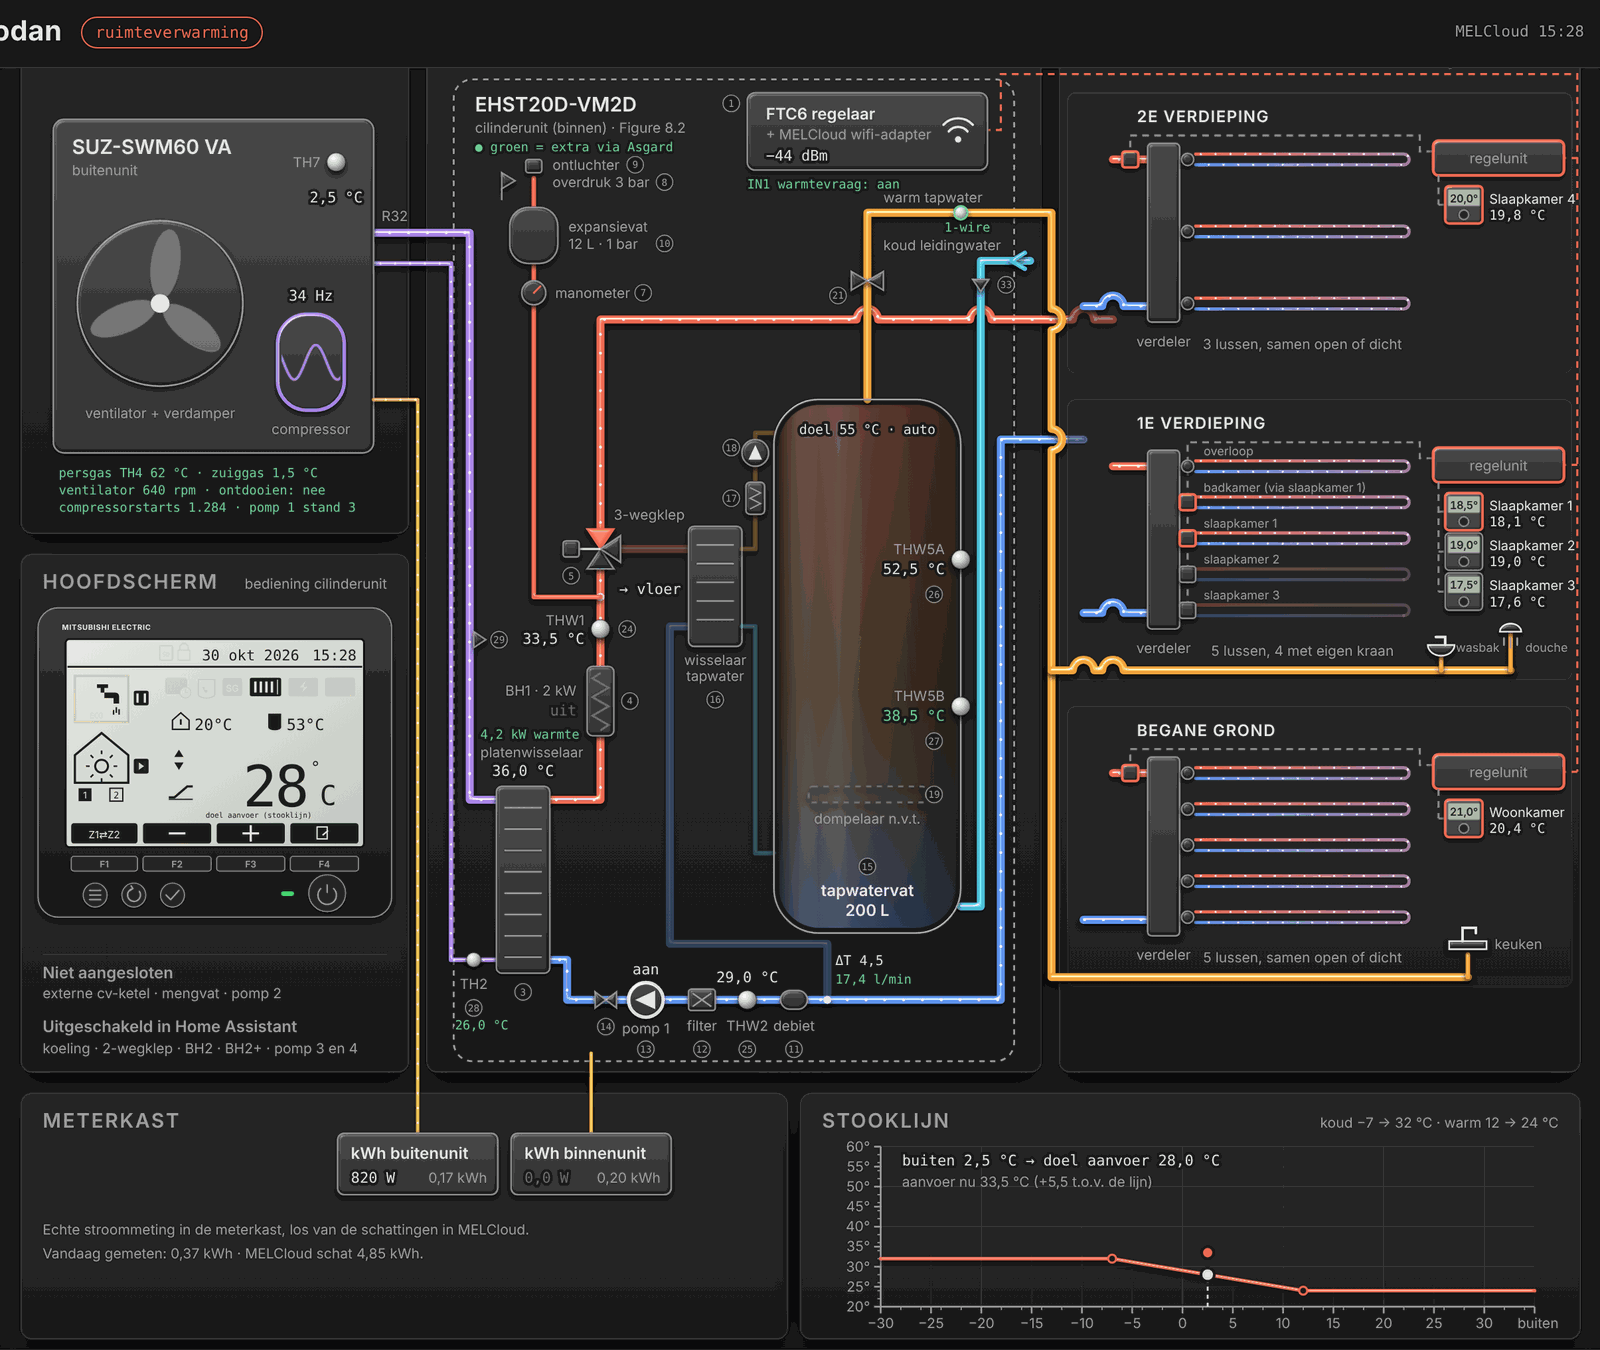
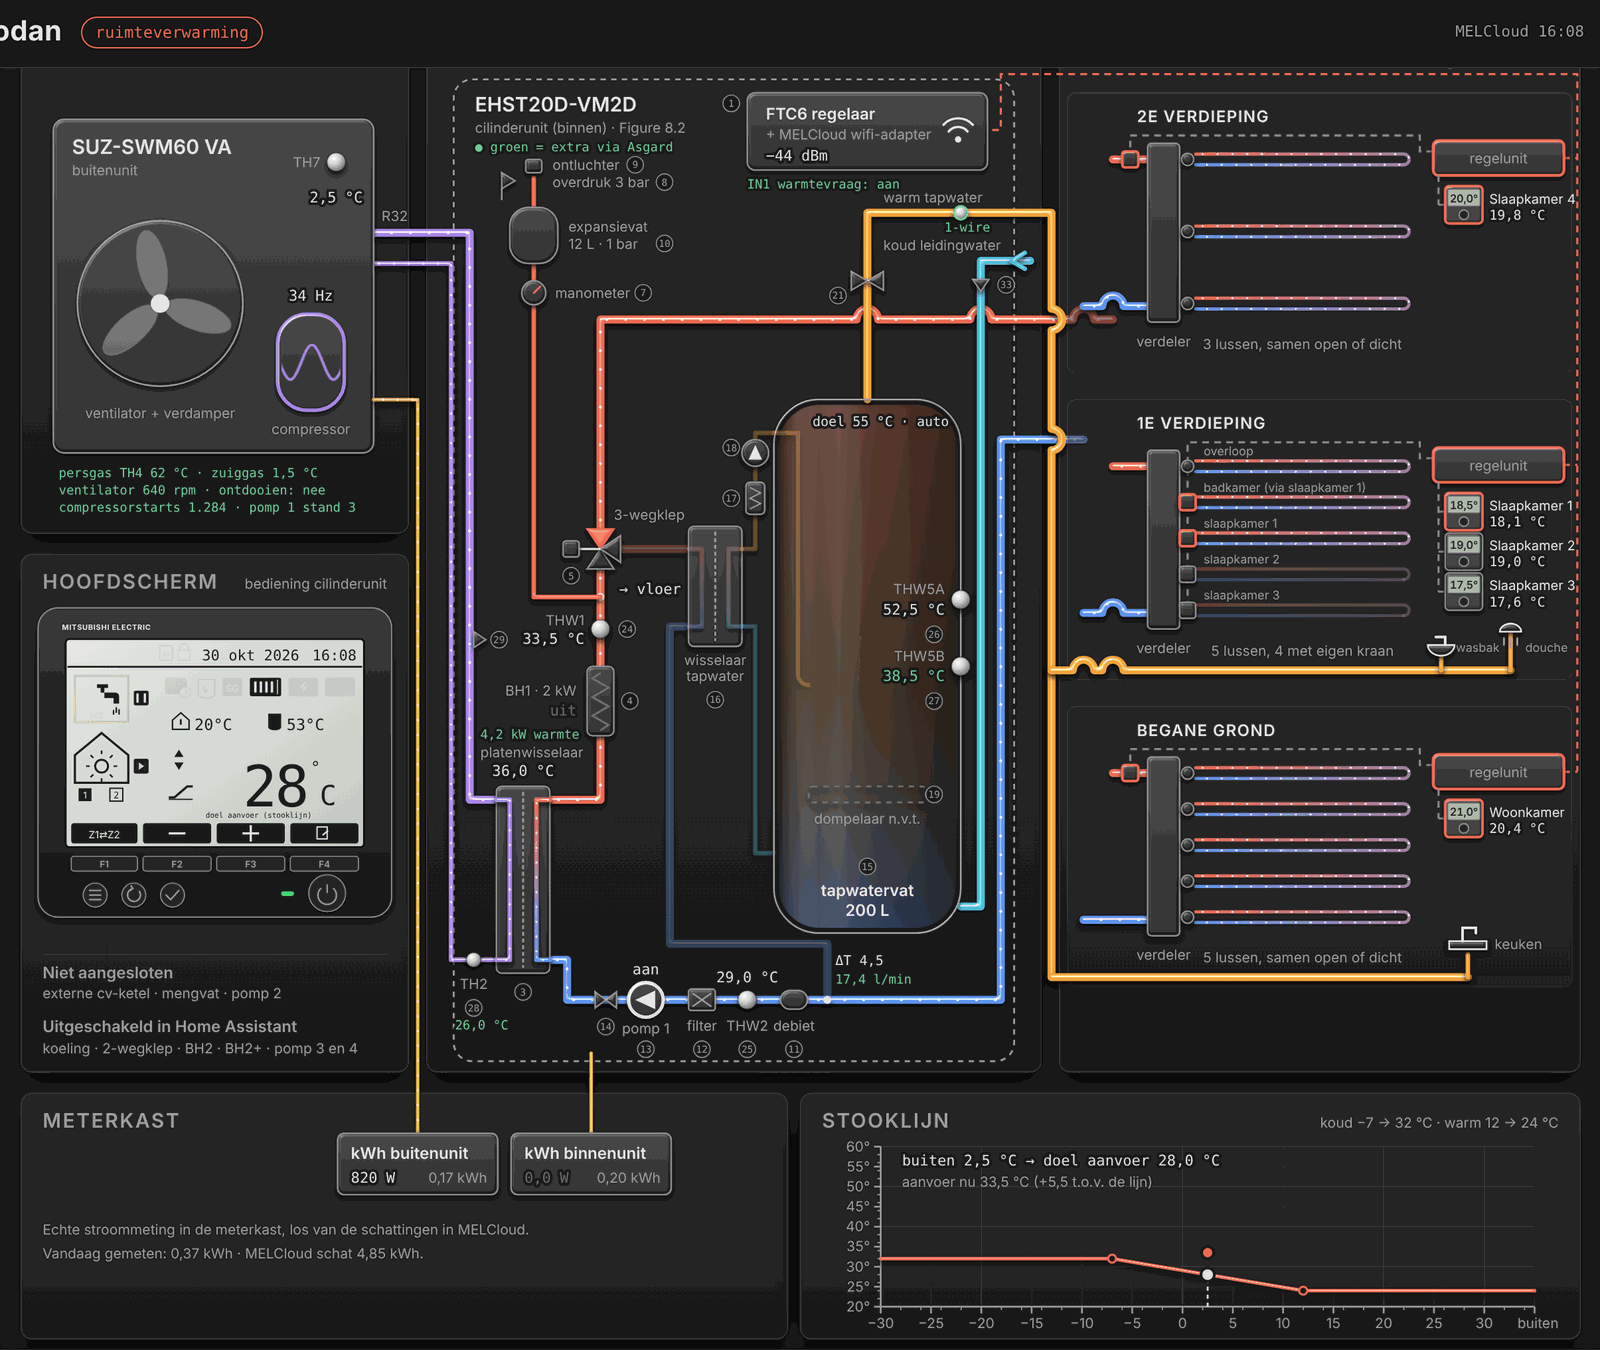
Ontwerp: gescheiden circuits in platenwisselaars 3 en 16, terugvoer in het vat tot onder THW5B
Platenwisselaar 3 toont links het koudemiddel en rechts het water; wisselaar 16 links het
primaire water (klep 5 terug naar debietmeter 11) en rechts het tapwater (onderin het vat naar
17 en 18). De leiding na pomp 18 loopt in het vat door tot net onder THW5B, zoals in Figure 8.2.

Claude-Session: https://claude.ai/code/session_01N7p1Vn81D8G9jPGQKcyavj

diff --git a/custom_components/ecodash/frontend/ecodash-panel.js b/custom_components/ecodash/frontend/ecodash-panel.js
@@ -329,6 +329,13 @@ function schemaSvg(floors, curve) {
       <stop offset=".34" stop-color="#fff" stop-opacity=".12"/><stop offset=".6" stop-color="#000" stop-opacity=".04"/>
       <stop offset="1" stop-color="#000" stop-opacity=".42"/></linearGradient>
     <!-- spiraal: warm (aanvoer) bovenin, afgekoeld (retour) bij de uitgang rechtsonder -->
+    <!-- platenwisselaars: water warmt op in 3 (onder retour, boven aanvoer); in 16 koelt het primaire water af en warmt het tapwater op -->
+    <linearGradient id="hex3W" gradientUnits="userSpaceOnUse" x1="0" y1="720" x2="0" y2="600">
+      <stop offset="0" style="stop-color:var(--ret)"/><stop offset="1" style="stop-color:var(--hot)"/></linearGradient>
+    <linearGradient id="hex16P" gradientUnits="userSpaceOnUse" x1="0" y1="412" x2="0" y2="470">
+      <stop offset="0" style="stop-color:var(--hot)"/><stop offset="1" style="stop-color:var(--ret)"/></linearGradient>
+    <linearGradient id="hex16S" gradientUnits="userSpaceOnUse" x1="0" y1="470" x2="0" y2="412">
+      <stop offset="0" style="stop-color:var(--cold)"/><stop offset="1" style="stop-color:var(--dhw)"/></linearGradient>
     <linearGradient id="coilGrad" gradientUnits="userSpaceOnUse" x1="0" y1="420" x2="0" y2="650">
       <stop offset="0" style="stop-color:var(--hot)"/><stop offset="1" style="stop-color:var(--ret)"/></linearGradient>
     <!-- vat: gelaagd, koud leidingwater onderin en warm tapwater bovenin -->
@@ -475,12 +482,9 @@ function schemaSvg(floors, curve) {
 
   <g class="comp" data-c="hex" tabindex="0" role="button" aria-label="Platenwisselaar koudemiddel-water">
     <rect class="shape" x="372" y="590" width="40" height="140" rx="4"/>
-    <g stroke="var(--muted)" stroke-width="1.2">
-      <line x1="378" y1="606" x2="406" y2="606"/><line x1="378" y1="622" x2="406" y2="622"/>
-      <line x1="378" y1="638" x2="406" y2="638"/><line x1="378" y1="654" x2="406" y2="654"/>
-      <line x1="378" y1="670" x2="406" y2="670"/><line x1="378" y1="686" x2="406" y2="686"/>
-      <line x1="378" y1="702" x2="406" y2="702"/><line x1="378" y1="718" x2="406" y2="718"/>
-    </g>
+    <path class="hexwall" d="M392,594 V726"/>
+    ${pipe("M372,600 H382 V720 H372", "refr", "refr", true)}
+    <path class="pipe thin b-prim" style="stroke:url(#hex3W)" d="M412,720 H402 V600 H412"/><path class="fl f-prim thin" d="M412,720 H402 V600 H412"/>
     <text class="t s" x="360" y="568">platenwisselaar</text>
     <text class="val" id="v-cond" x="392" y="582" text-anchor="middle"></text>
     <text class="asg sm" x="360" y="554">4,2 kW warmte</text>
@@ -519,11 +523,9 @@ function schemaSvg(floors, curve) {
   <!-- tapwaterkant: platenwisselaar water-water 16, kalkvanger 17, sanitaire pomp 18 -->
   <g class="comp" data-c="hex16" tabindex="0" role="button" aria-label="Platenwisselaar water-water voor tapwater">
     <rect class="shape" x="516" y="395" width="40" height="90" rx="4"/>
-    <g stroke="var(--muted)" stroke-width="1.2">
-      <line x1="522" y1="409" x2="550" y2="409"/><line x1="522" y1="423" x2="550" y2="423"/>
-      <line x1="522" y1="437" x2="550" y2="437"/><line x1="522" y1="451" x2="550" y2="451"/>
-      <line x1="522" y1="465" x2="550" y2="465"/>
-    </g>
+    <path class="hexwall" d="M536,399 V481"/>
+    <path class="pipe thin b-dhw" style="stroke:url(#hex16P)" d="M516,412 H526 V470 H516"/><path class="fl f-dhw thin" d="M516,412 H526 V470 H516"/>
+    <path class="pipe thin b-dhw" style="stroke:url(#hex16S)" d="M556,470 H546 V412 H556"/><path class="fl f-dhw thin" d="M556,470 H546 V412 H556"/>
     <text class="t s" x="536" y="499" text-anchor="middle">wisselaar</text>
     <text class="t s" x="536" y="511" text-anchor="middle">tapwater</text>
     ${nb(536, 525, 16)}
@@ -581,24 +583,25 @@ function schemaSvg(floors, curve) {
     <rect class="shape" x="580" y="300" width="140" height="400" rx="34" style="fill:none"/>
     <text class="t b" x="650" y="672" text-anchor="middle">tapwatervat</text>
     <text class="t b" x="650" y="687" text-anchor="middle">200 L</text>
-    <text class="val sm" id="v-target" x="650" y="326" text-anchor="middle"></text>
+    <text class="val sm" id="v-target" x="660" y="320" text-anchor="middle"></text>
     ${nb(650, 650, 15)}
   </g>
+  ${pipe("M580,325 H598 V506 a8,8 0 0 0 8,8", "dhw", "dhw", true)}
   <g class="comp" data-c="imm" tabindex="0" role="button" aria-label="Dompelaar, niet ingebouwd">
     <rect class="ghost" id="imm-shape" x="606" y="590" width="88" height="12" rx="3"/>
     <text class="t s" x="650" y="618" text-anchor="middle">dompelaar n.v.t.</text>
     ${nb(700, 596, 19)}
   </g>
   <g class="comp" data-c="thw5" tabindex="0" role="button" aria-label="Tankvoelers THW5A en THW5B">
-    <rect class="hit" x="640" y="400" width="86" height="180"/>
-    <circle class="sensor" cx="720" cy="420" r="7"/>
-    <text class="t s" x="708" y="416" text-anchor="end">THW5A</text>
-    <text class="val" id="v-tank" x="708" y="431" text-anchor="end"></text>
-    ${nb(700, 446, 26)}
-    <circle class="sensor" cx="720" cy="530" r="7"/>
-    <text class="t s" x="708" y="526" text-anchor="end">THW5B</text>
-    <text class="asg" x="708" y="541" text-anchor="end">38,5 °C</text>
-    ${nb(700, 556, 27)}
+    <rect class="hit" x="640" y="430" width="86" height="106"/>
+    <circle class="sensor" cx="720" cy="450" r="7"/>
+    <text class="t s" x="708" y="446" text-anchor="end">THW5A</text>
+    <text class="val" id="v-tank" x="708" y="461" text-anchor="end"></text>
+    ${nb(700, 476, 26)}
+    <circle class="sensor" cx="720" cy="500" r="7"/>
+    <text class="t s" x="708" y="496" text-anchor="end">THW5B</text>
+    <text class="asg" x="708" y="511" text-anchor="end">38,5 °C</text>
+    ${nb(700, 526, 27)}
   </g>
 
   <text class="zlabel" x="32" y="442">HOOFDSCHERM</text>
@@ -669,7 +672,7 @@ const C = {
   comp: { name: "Compressor", where: "In de buitenunit", text: "Het hart van de warmtepomp. Drukt het koudemiddel samen, waardoor het heet wordt. Het is een inverter: het toerental (in Hz) past zich aan de vraag aan. 0 Hz = uit." },
   th7: { name: "Buitenvoeler TH7", where: "Achterkant buitenunit", text: "Meet de buitentemperatuur. De regelaar gebruikt die voor de stooklijn: hoe kouder het buiten is, hoe warmer het water naar de vloeren gaat." },
   refr: { name: "Koudemiddelleidingen (R32)", where: "Tussen tuin en technische ruimte", text: "Twee koperen leidingen: een dikke gasleiding (heet gas naar binnen) en een dunne vloeistofleiding (terug naar buiten). Dit is een split-systeem: het koudemiddel komt tot in de cilinderunit. De paarse bolletjes lopen zodra de compressor draait; hoe hoger het toerental, hoe sneller." },
-  hex: { name: "Platenwarmtewisselaar", where: "In de cilinderunit", text: "Hier wordt koudemiddel-warmte omgezet in warm water. Het hete koudemiddel condenseert (wordt weer vloeibaar) en geeft daarbij zijn warmte af aan het verwarmingswater dat er aan de andere kant langs stroomt." },
+  hex: { name: "Platenwisselaar koudemiddel-water (3)", where: "In de cilinderunit", text: "Hier wordt koudemiddel-warmte omgezet in warm water. Links stroomt het koudemiddel (paars): het hete gas condenseert en verlaat de wisselaar als vloeistof langs TH2. Rechts stroomt het verwarmingswater van onder naar boven en warmt op. De platen houden beide circuits gescheiden." },
   ftc: { name: "FTC6 regelaar + MELCloud wifi", where: "In de cilinderunit (achter het bedieningspaneel)", text: "Het brein. De FTC6 leest alle voelers, stuurt pomp, klep en heaters aan, berekent het energieverbruik en praat via de wifi-adapter met MELCloud. Home Assistant haalt alle waarden op uit MELCloud, niet rechtstreeks uit de unit. Daardoor lopen de waarden een paar minuten achter." },
   bh1: { name: "Booster heater 1 (2 kW)", where: "In de aanvoerleiding, in de cilinderunit", text: "Een elektrisch verwarmingselement direct in het water. Springt bij als de warmtepomp het alleen niet redt: strenge vorst, ontdooien, of de wekelijkse legionella-run (vat naar ±60 °C). Dit is de dure route: 1 kWh stroom = 1 kWh warmte." },
   pump1: { name: "Pomp 1 (circulatiepomp)", where: "In de cilinderunit", text: "Ingebouwde pomp die het water rondpompt door de platenwisselaar en daarna naar het vat óf de vloeren. Staat de pomp uit, dan stroomt er niets en staan er in het schema geen bolletjes op de waterleidingen." },
@@ -682,7 +685,7 @@ const C = {
   taps: { name: "Tappunten warm water", where: "Keuken (begane grond), wasbak en douche (1e verdieping)", text: "Tijdens het tappen draait er geen pomp. De waterleidingdruk duwt koud water onderin het vat, en dat duwt het warme water bovenuit naar de kraan. Pas als het vat daardoor genoeg afkoelt, gaat de warmtepomp het vat opwarmen; dan draaien pomp 1 en de sanitaire pomp 18. Welke kraan open staat is niet te meten; het schema laat alle drie de tappunten oplichten zodra er warm water getapt wordt." },
   ds18: { name: "1-wire-voeler (DS18B20) op de warmwaterleiding", where: "Idee: op de uitgaande warmwaterleiding van het vat", text: "De Asgard heeft een 1-wire-aansluiting voor maximaal zes DS18B20-voelers. Een voeler op de warmwaterleiding warmt binnen seconden op zodra er getapt wordt. Zo is tappen direct en betrouwbaar te zien, ook zonder dat het vat al merkbaar afkoelt." },
   asgOut: { name: "Extra waarden via Asgard (CN105)", where: "Buitenunit en pomp", text: "Met de Asgard op CN105 komen de waarden direct van de FTC6, binnen seconden in plaats van na maximaal 20 minuten via MELCloud. Extra: persgastemperatuur, zuiggas, ventilatortoerental, ontdooien, compressorstarts en pompstand. Let op: de servicecodes voor de buitenunit werken niet op alle SUZ-buitenunits; dat moet in de praktijk blijken. De waarden in dit ontwerp zijn voorbeelden." },
-  hex16: { name: "Platenwisselaar water-water (16)", where: "In de cilinderunit, naast het vat", text: "Het vat heeft geen spiraal. Staat de 3-wegklep (5) op tapwater, dan stroomt het verwarmingswater door deze tweede platenwisselaar. Aan de andere kant pompt de sanitaire pomp (18) koud water van onderin het vat erdoorheen; dat komt opgewarmd bovenin het vat terug. Het verwarmingswater en het drinkwater raken elkaar niet." },
+  hex16: { name: "Platenwisselaar water-water (16)", where: "In de cilinderunit, naast het vat", text: "Het vat heeft geen spiraal. Staat de 3-wegklep (5) op tapwater, dan stroomt het verwarmingswater door de linkerhelft van deze tweede platenwisselaar en via de debietmeter (11) terug naar de warmtepomp. Door de rechterhelft pompt de sanitaire pomp (18) koud water van onderin het vat; dat gaat opgewarmd via de kalkvanger (17) en pomp 18 terug het vat in en komt vrij net onder THW5B. Het verwarmingswater en het drinkwater raken elkaar niet." },
   pump18: { name: "Sanitaire pomp (18)", where: "Tussen wisselaar 16 en het vat", text: "Pompt tijdens het opwarmen van tapwater het water van onderin het vat via de kalkvanger (17) en wisselaar 16 terug naar bovenin. Draait alleen in tapwaterstand. MELCloud geeft deze pomp niet apart door; het schema laat hem meedraaien met de tapwaterstand." },
   scale: { name: "Kalkvanger (17)", where: "Sanitair circuit, voor pomp 18", text: "Vangt kalk op die uit het drinkwater neerslaat bij het opwarmen, zodat wisselaar 16 en pomp 18 niet dichtslibben. Hoort bij het jaarlijkse onderhoud." },
   safety: { name: "Expansievat, manometer, ontluchter en overdrukventiel", where: "Aanvoerleiding, bovenin de cilinderunit", text: "Expansievat 10 (12 L, voordruk 1 bar) vangt het uitzetten van het verwarmingswater op. Manometer 7 toont de waterdruk. Automatische ontluchter 9 laat lucht ontsnappen en overdrukventiel 8 opent bij 3 bar. Niets hiervan is uit te lezen in MELCloud." },
@@ -912,6 +915,7 @@ svg.schema{display:block;width:100%;height:auto;aspect-ratio:1200/1012;font-fami
 .fill-ink{fill:var(--ink)} .fill-muted{fill:var(--muted)}
 .wifi{stroke:var(--ink)}
 .coilheat{stroke:var(--off)}
+.hexwall{stroke:var(--muted);stroke-width:1.4;stroke-dasharray:3 2;fill:none}
 .nb circle{fill:var(--surface);stroke:var(--muted);stroke-width:.8;opacity:.9}
 .nb text{font-family:var(--f-mono);font-size:7.2px;fill:var(--muted);text-anchor:middle;pointer-events:none}
 svg.run-dhw .pump18{stroke:var(--accent);stroke-width:2.4}

diff --git a/docs/ontwerp/README.md b/docs/ontwerp/README.md
@@ -11,8 +11,12 @@ en *Table 4.1* (Part names and functions).
 ## Wat er verandert ten opzichte van 1.8.5
 
 - **Geen spiraal in het vat.** Het vat (15) wordt opgewarmd via een aparte platenwisselaar
-  water-water (16). De sanitaire pomp (18) pompt water van onderin het vat via de kalkvanger (17)
-  door die wisselaar en terug bovenin het vat.
+  water-water (16), getekend met twee gescheiden circuits:
+  - links het primaire water: van 3-wegklep 5 door 16 en via debietmeter 11 terug;
+  - rechts het tapwater: van onderin het vat door 16, dan via kalkvanger 17 en sanitaire pomp 18
+    terug het vat in. Binnen het vat loopt die leiding door tot net onder THW5B (27).
+- **Platenwisselaar 3** heeft ook twee gescheiden circuits: links het koudemiddel R32, rechts het
+  verwarmingswater dat van onder naar boven opwarmt.
 - **Primair circuit zoals in Figure 8.2:**
   - koudemiddel naar platenwisselaar 3, met TH2 (28) en drukvoeler (29);
   - aanvoer via booster heater 4 en THW1 (24) naar 3-wegklep 5;
